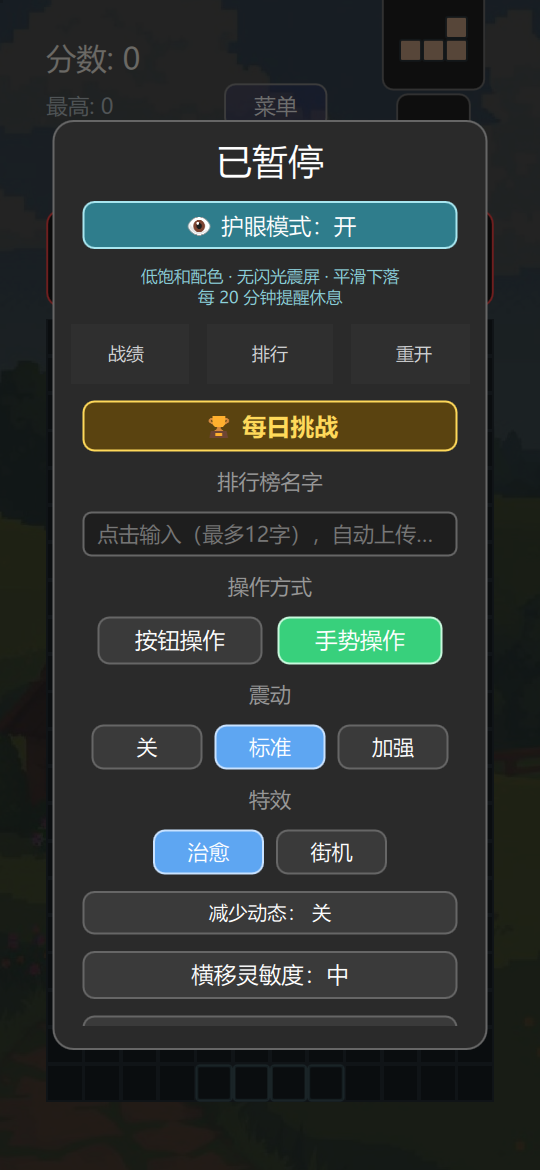
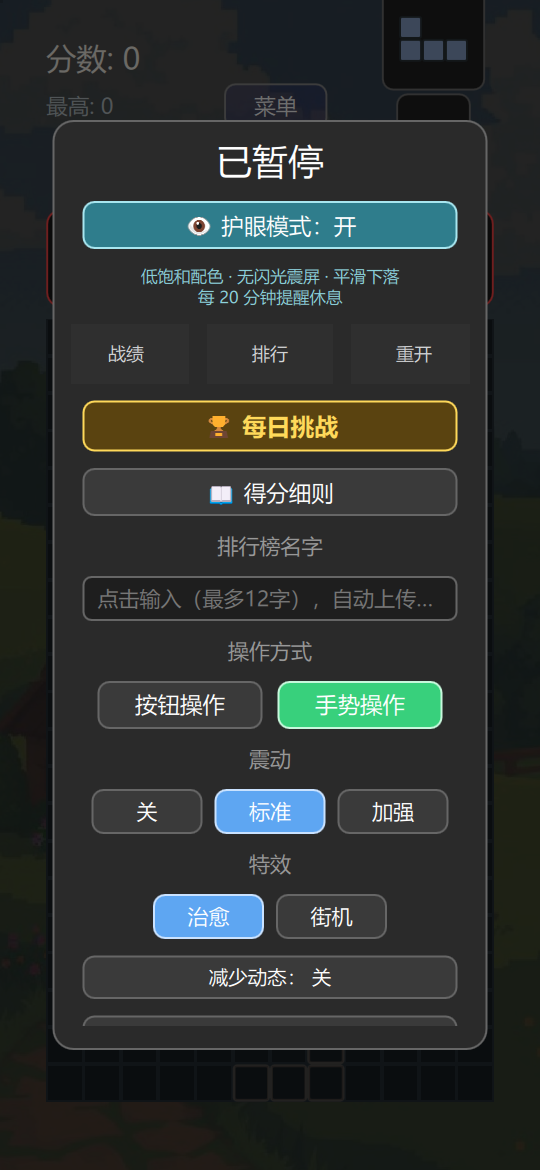
得分细则改版（用户指令）：背景选择面板删除过期计分文案(旧值80)；暂停菜单新增「📖 得分细则」条目+独立面板——基础分动态取自 scoreForClearedLines(平衡调整自动同步)/B2B与连击能量/硬降软降/每日挑战说明；菜单截图验证；补丁v41

diff --git a/Main.qml b/Main.qml
@@ -141,6 +141,7 @@ ApplicationWindow {
     property bool showBgPicker: false
     property bool showStats: false
     property bool showDiag: false          // 隐藏诊断日志页（连点"已暂停"标题 5 次打开）
+    property bool showScoreRules: false    // 得分细则面板（菜单入口，数值动态取自计分函数）
     property bool forceFrames: false       // 回前台后强推帧 3 秒：卓易通锁屏会吞 Surface，
                                            // 解锁后必须持续冲刷帧才能把新画面顶上去（用户实测
                                            // 锁屏前开过菜单=帧泵在跑→解锁不黑屏，据此推广）
@@ -4225,14 +4226,6 @@ ApplicationWindow {
                     anchors.horizontalCenter: parent.horizontalCenter
                 }
 
-                Text {
-                    text: "加分：消行 10/30/50/80 ×连击\n四消连续 ×1.5 · 到底+2/格 · ↓+1/格"
-                    color: "#B9C4C8"
-                    font.pixelSize: 12
-                    horizontalAlignment: Text.AlignHCenter
-                    anchors.horizontalCenter: parent.horizontalCenter
-                }
-
                 Grid {
                     columns: 3
                     spacing: 8
@@ -4492,6 +4485,104 @@ ApplicationWindow {
                     width: 120
                     anchors.horizontalCenter: parent.horizontalCenter
                     onClicked: showStats = false
+                }
+            }
+        }
+    }
+
+    // 得分细则面板（菜单入口；基础分动态取自计分函数，平衡调整自动同步）
+    Rectangle {
+        anchors.fill: parent
+        visible: showScoreRules
+        color: "#B0000000"
+        z: 47
+
+        MouseArea { anchors.fill: parent; onClicked: showScoreRules = false }
+
+        Rectangle {
+            width: 312
+            height: rulesCol.implicitHeight + 40
+            radius: 14
+            color: "#2a2a2a"
+            border.color: "#666666"
+            border.width: 1
+            anchors.centerIn: parent
+
+            Column {
+                id: rulesCol
+                anchors.centerIn: parent
+                spacing: 11
+                width: 264
+
+                Text {
+                    text: "📖 得分细则"
+                    color: "#ffd95a"
+                    font.pixelSize: 19
+                    font.bold: true
+                    anchors.horizontalCenter: parent.horizontalCenter
+                }
+
+                Repeater {
+                    model: [
+                        ["单消", scoreForClearedLines(1)],
+                        ["双消", scoreForClearedLines(2)],
+                        ["三消", scoreForClearedLines(3)],
+                        ["四消", scoreForClearedLines(4)]
+                    ]
+                    delegate: Row {
+                        width: parent.width
+
+                        Text {
+                            text: modelData[0]
+                            color: "#B9C4C8"
+                            font.pixelSize: 14
+                            width: 140
+                        }
+                        Text {
+                            text: modelData[1] + " × 连击数"
+                            color: "#F5F1E8"
+                            font.pixelSize: 14
+                            font.bold: true
+                            horizontalAlignment: Text.AlignRight
+                            width: 110
+                        }
+                    }
+                }
+
+                Rectangle { width: parent.width; height: 1; color: "#4a4a4a" }
+
+                Text {
+                    text: "· B2B：连续两次消行都是四消，第二个起 ×1.5（左上角金色角标=待命）"
+                    color: "#B9C4C8"
+                    font.pixelSize: 12
+                    wrapMode: Text.WrapAnywhere
+                    width: parent.width
+                }
+                Text {
+                    text: "· 连击能量：消行回满 100，约 6.5 秒未消行衰减归零，归零连击结束"
+                    color: "#B9C4C8"
+                    font.pixelSize: 12
+                    wrapMode: Text.WrapAnywhere
+                    width: parent.width
+                }
+                Text {
+                    text: "· 硬降每格 +2 分，软降每格 +1 分"
+                    color: "#B9C4C8"
+                    font.pixelSize: 12
+                }
+                Text {
+                    text: "· 每日挑战：全服同一串方块，成绩计入今日榜"
+                    color: "#B9C4C8"
+                    font.pixelSize: 12
+                    wrapMode: Text.WrapAnywhere
+                    width: parent.width
+                }
+
+                Button {
+                    text: "知道了"
+                    width: 120
+                    anchors.horizontalCenter: parent.horizontalCenter
+                    onClicked: showScoreRules = false
                 }
             }
         }
@@ -4893,6 +4984,28 @@ ApplicationWindow {
                         color: "#ffd95a"
                         font.pixelSize: 16
                         font.bold: true
+                        horizontalAlignment: Text.AlignHCenter
+                        verticalAlignment: Text.AlignVCenter
+                    }
+                }
+
+                // 得分细则：数值动态取自计分函数，平衡调整自动同步
+                Button {
+                    width: 250
+                    anchors.horizontalCenter: parent.horizontalCenter
+                    onClicked: showScoreRules = true
+
+                    background: Rectangle {
+                        radius: 8
+                        color: "#3a3a3a"
+                        border.width: 1
+                        border.color: "#666666"
+                    }
+
+                    contentItem: Text {
+                        text: "📖 得分细则"
+                        color: "white"
+                        font.pixelSize: 15
                         horizontalAlignment: Text.AlignHCenter
                         verticalAlignment: Text.AlignVCenter
                     }

diff --git a/leaderboard/apk/patch/Main.qml b/leaderboard/apk/patch/Main.qml
@@ -141,6 +141,7 @@ ApplicationWindow {
     property bool showBgPicker: false
     property bool showStats: false
     property bool showDiag: false          // 隐藏诊断日志页（连点"已暂停"标题 5 次打开）
+    property bool showScoreRules: false    // 得分细则面板（菜单入口，数值动态取自计分函数）
     property bool forceFrames: false       // 回前台后强推帧 3 秒：卓易通锁屏会吞 Surface，
                                            // 解锁后必须持续冲刷帧才能把新画面顶上去（用户实测
                                            // 锁屏前开过菜单=帧泵在跑→解锁不黑屏，据此推广）
@@ -4225,14 +4226,6 @@ ApplicationWindow {
                     anchors.horizontalCenter: parent.horizontalCenter
                 }
 
-                Text {
-                    text: "加分：消行 10/30/50/80 ×连击\n四消连续 ×1.5 · 到底+2/格 · ↓+1/格"
-                    color: "#B9C4C8"
-                    font.pixelSize: 12
-                    horizontalAlignment: Text.AlignHCenter
-                    anchors.horizontalCenter: parent.horizontalCenter
-                }
-
                 Grid {
                     columns: 3
                     spacing: 8
@@ -4492,6 +4485,104 @@ ApplicationWindow {
                     width: 120
                     anchors.horizontalCenter: parent.horizontalCenter
                     onClicked: showStats = false
+                }
+            }
+        }
+    }
+
+    // 得分细则面板（菜单入口；基础分动态取自计分函数，平衡调整自动同步）
+    Rectangle {
+        anchors.fill: parent
+        visible: showScoreRules
+        color: "#B0000000"
+        z: 47
+
+        MouseArea { anchors.fill: parent; onClicked: showScoreRules = false }
+
+        Rectangle {
+            width: 312
+            height: rulesCol.implicitHeight + 40
+            radius: 14
+            color: "#2a2a2a"
+            border.color: "#666666"
+            border.width: 1
+            anchors.centerIn: parent
+
+            Column {
+                id: rulesCol
+                anchors.centerIn: parent
+                spacing: 11
+                width: 264
+
+                Text {
+                    text: "📖 得分细则"
+                    color: "#ffd95a"
+                    font.pixelSize: 19
+                    font.bold: true
+                    anchors.horizontalCenter: parent.horizontalCenter
+                }
+
+                Repeater {
+                    model: [
+                        ["单消", scoreForClearedLines(1)],
+                        ["双消", scoreForClearedLines(2)],
+                        ["三消", scoreForClearedLines(3)],
+                        ["四消", scoreForClearedLines(4)]
+                    ]
+                    delegate: Row {
+                        width: parent.width
+
+                        Text {
+                            text: modelData[0]
+                            color: "#B9C4C8"
+                            font.pixelSize: 14
+                            width: 140
+                        }
+                        Text {
+                            text: modelData[1] + " × 连击数"
+                            color: "#F5F1E8"
+                            font.pixelSize: 14
+                            font.bold: true
+                            horizontalAlignment: Text.AlignRight
+                            width: 110
+                        }
+                    }
+                }
+
+                Rectangle { width: parent.width; height: 1; color: "#4a4a4a" }
+
+                Text {
+                    text: "· B2B：连续两次消行都是四消，第二个起 ×1.5（左上角金色角标=待命）"
+                    color: "#B9C4C8"
+                    font.pixelSize: 12
+                    wrapMode: Text.WrapAnywhere
+                    width: parent.width
+                }
+                Text {
+                    text: "· 连击能量：消行回满 100，约 6.5 秒未消行衰减归零，归零连击结束"
+                    color: "#B9C4C8"
+                    font.pixelSize: 12
+                    wrapMode: Text.WrapAnywhere
+                    width: parent.width
+                }
+                Text {
+                    text: "· 硬降每格 +2 分，软降每格 +1 分"
+                    color: "#B9C4C8"
+                    font.pixelSize: 12
+                }
+                Text {
+                    text: "· 每日挑战：全服同一串方块，成绩计入今日榜"
+                    color: "#B9C4C8"
+                    font.pixelSize: 12
+                    wrapMode: Text.WrapAnywhere
+                    width: parent.width
+                }
+
+                Button {
+                    text: "知道了"
+                    width: 120
+                    anchors.horizontalCenter: parent.horizontalCenter
+                    onClicked: showScoreRules = false
                 }
             }
         }
@@ -4893,6 +4984,28 @@ ApplicationWindow {
                         color: "#ffd95a"
                         font.pixelSize: 16
                         font.bold: true
+                        horizontalAlignment: Text.AlignHCenter
+                        verticalAlignment: Text.AlignVCenter
+                    }
+                }
+
+                // 得分细则：数值动态取自计分函数，平衡调整自动同步
+                Button {
+                    width: 250
+                    anchors.horizontalCenter: parent.horizontalCenter
+                    onClicked: showScoreRules = true
+
+                    background: Rectangle {
+                        radius: 8
+                        color: "#3a3a3a"
+                        border.width: 1
+                        border.color: "#666666"
+                    }
+
+                    contentItem: Text {
+                        text: "📖 得分细则"
+                        color: "white"
+                        font.pixelSize: 15
                         horizontalAlignment: Text.AlignHCenter
                         verticalAlignment: Text.AlignVCenter
                     }
